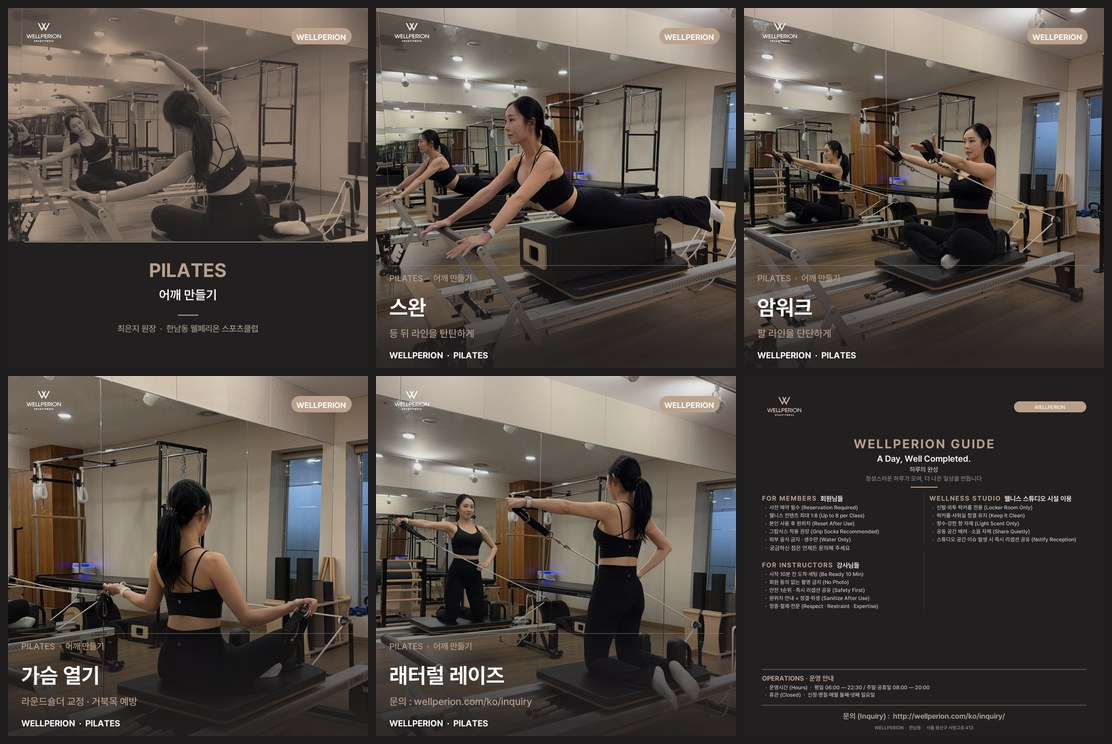
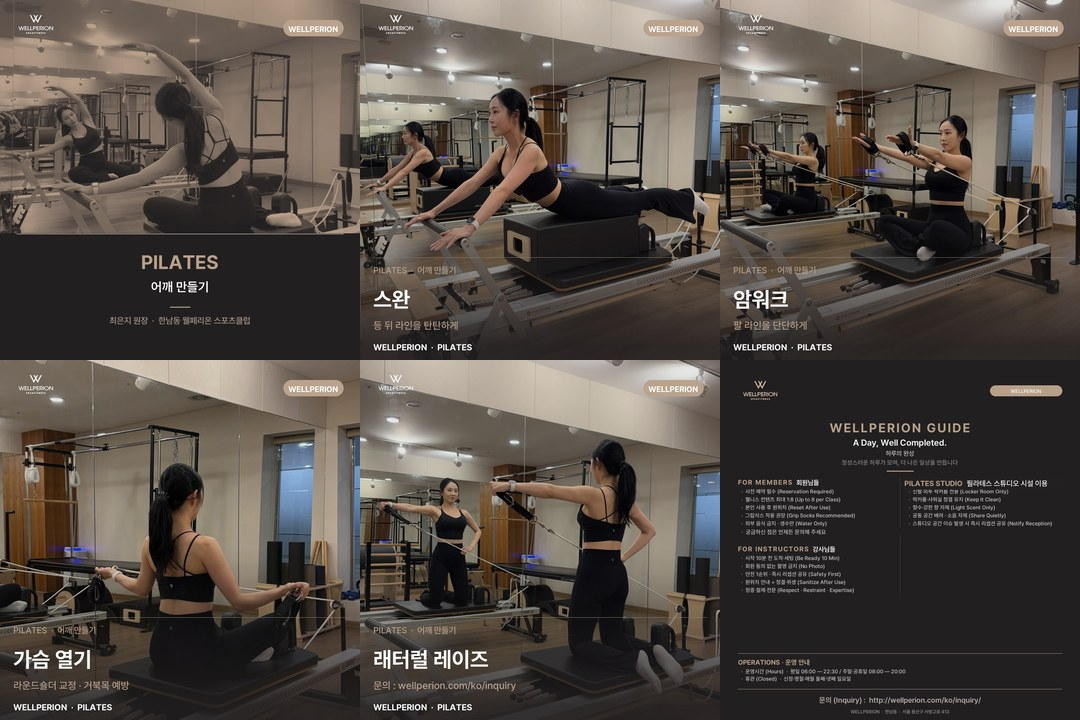
fix(cmo): ig_06 가이드카드 WELLNESS STUDIO → PILATES STUDIO 명칭 변경 (시모, 잘림 복구 커밋)

diff --git a/scripts/compose_pilates.py b/scripts/compose_pilates.py
@@ -175,6 +175,58 @@ P04   = SRC / "4. 가슴열기(회전근개운동).jpg"
 P05   = SRC / "5. 래터럴레이즈.jpg"
 
 
+# ---------------------------------------------------------------------------
+# 필라테스 전용 가이드 카드 — 공용 guideline_card.jpg 기반,
+# "WELLNESS STUDIO / 웰니스 스튜디오" → "PILATES STUDIO / 필라테스 스튜디오" 명칭만 변경.
+# 공용 SSOT(guideline_card.jpg) 원본은 절대 수정하지 않음.
+# ---------------------------------------------------------------------------
+def compose_guide_card_pilates(output_path: Path) -> None:
+    """필라테스 포스트 전용 GUIDE 카드.
+    공용 guideline_card.jpg를 베이스로 열어 WELLNESS STUDIO 섹션 제목만
+    PILATES STUDIO 로 교체 렌더링. 나머지 항목은 건드리지 않음.
+    """
+    guide_src = PROJECT_ROOT / "instagram" / "_assets" / "guideline_card.jpg"
+    if not guide_src.exists():
+        raise FileNotFoundError(f"GUIDE 카드 없음: {guide_src}")
+
+    img = Image.open(guide_src).convert("RGB")
+    if img.size != (W, H):
+        img = center_crop_fill(guide_src, W, H)
+
+    draw = ImageDraw.Draw(img)
+
+    # ── 배경색 샘플 (섹션 제목 행 배경 — 카드 우측 컬럼 헤더 영역)
+    # guideline_card.jpg 기준: WELLNESS STUDIO 제목 행 y ≈ 352~390, x ≈ 553~1035
+    # 해당 영역 배경색을 좌상단 픽셀로 샘플링하여 덮어씀 (배경이 단색임)
+    bg_sample = img.getpixel((560, 355))  # 헤더 행 배경 픽셀 샘플
+    # 덮어쓸 사각형 — 헤더 행만 (항목 텍스트 침범 방지, y 범위 축소)
+    ERASE_BOX = (553, 350, 1036, 388)
+    draw.rectangle(ERASE_BOX, fill=bg_sample)
+
+    # ── 새 텍스트 렌더링 — 공용 카드와 동일한 bold 폰트 크기(22px) 사용
+    # 원본 "FOR MEMBERS" / "FOR INSTRUCTORS" 와 같은 스타일:
+    # 영문=bold 베이지(#B79F8A), 한글=medium 흰색, 동일 행 inline
+    font_section_eng = load_font("bold", 22)
+    font_section_kor = load_font("medium", 22)
+
+    ENG_COLOR = (183, 159, 138)   # BEIGE — 원본 섹션 헤더 영문 색
+    KOR_COLOR = (255, 255, 255)   # WHITE — 원본 섹션 헤더 한글 색
+
+    # 영문 "PILATES STUDIO" 그리기 (x=553 기준)
+    TEXT_Y = 357
+    draw.text((553, TEXT_Y), "PILATES STUDIO", font=font_section_eng, fill=ENG_COLOR)
+
+    # 한글 "  필라테스 스튜디오 시설 이용" — 영문 뒤 이어서
+    eng_bbox = draw.textbbox((0, 0), "PILATES STUDIO", font=font_section_eng)
+    eng_w = eng_bbox[2] - eng_bbox[0]
+    kor_x = 553 + eng_w + 12  # 영문 뒤 12px 간격
+    draw.text((kor_x, TEXT_Y), "필라테스 스튜디오 시설 이용", font=font_section_kor, fill=KOR_COLOR)
+
+    output_path.parent.mkdir(parents=True, exist_ok=True)
+    img.save(output_path, "JPEG", quality=95, optimize=True)
+    print(f"  [가이드-필라테스] {output_path.name} ({output_path.stat().st_size // 1024}KB)")
+
+
 def main():
     out_ig = PROJECT_ROOT / "instagram" / "260610_필라테스_어깨만들기" / "output(인스타그램)"
     out_master = PROJECT_ROOT / "instagram" / "260610_필라테스_어깨만들기" / "output"
@@ -220,8 +272,8 @@ def main():
             output_path=out_ig / f"ig_{idx:02d}.jpg",
         )
 
-    # ig_06 — GUIDE 카드
-    compose_guide_card(output_path=out_ig / "ig_06.jpg")
+    # ig_06 — GUIDE 카드 (필라테스 전용: WELLNESS STUDIO → PILATES STUDIO)
+    compose_guide_card_pilates(output_path=out_ig / "ig_06.jpg")
 
     # 마스터 폴더 동기화
     print(f"\n출력(마스터): {out_master}")
